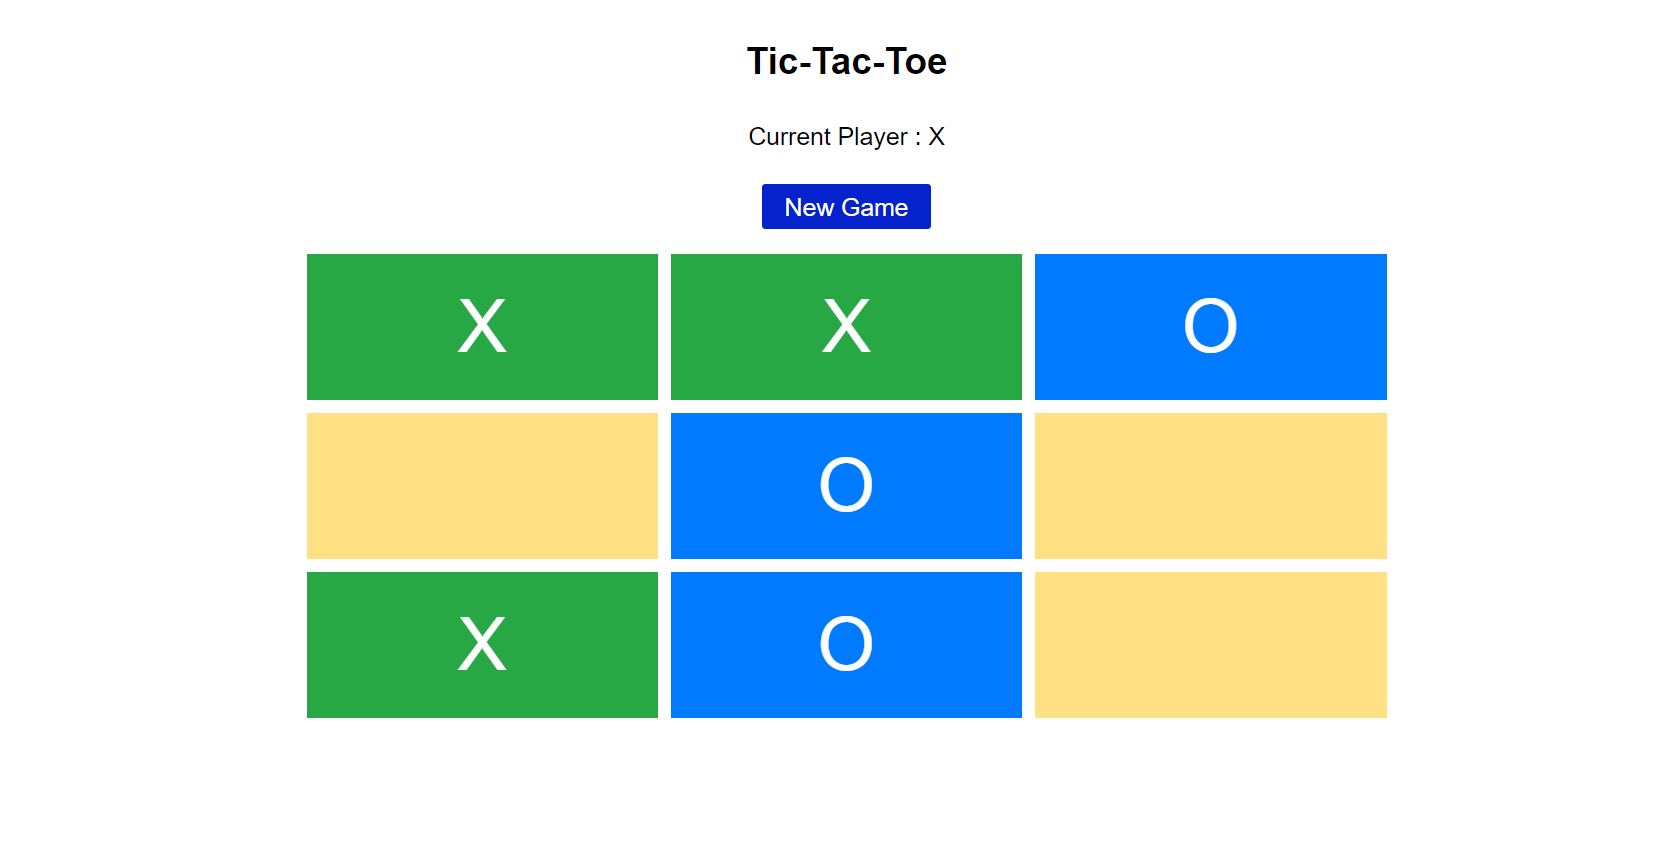
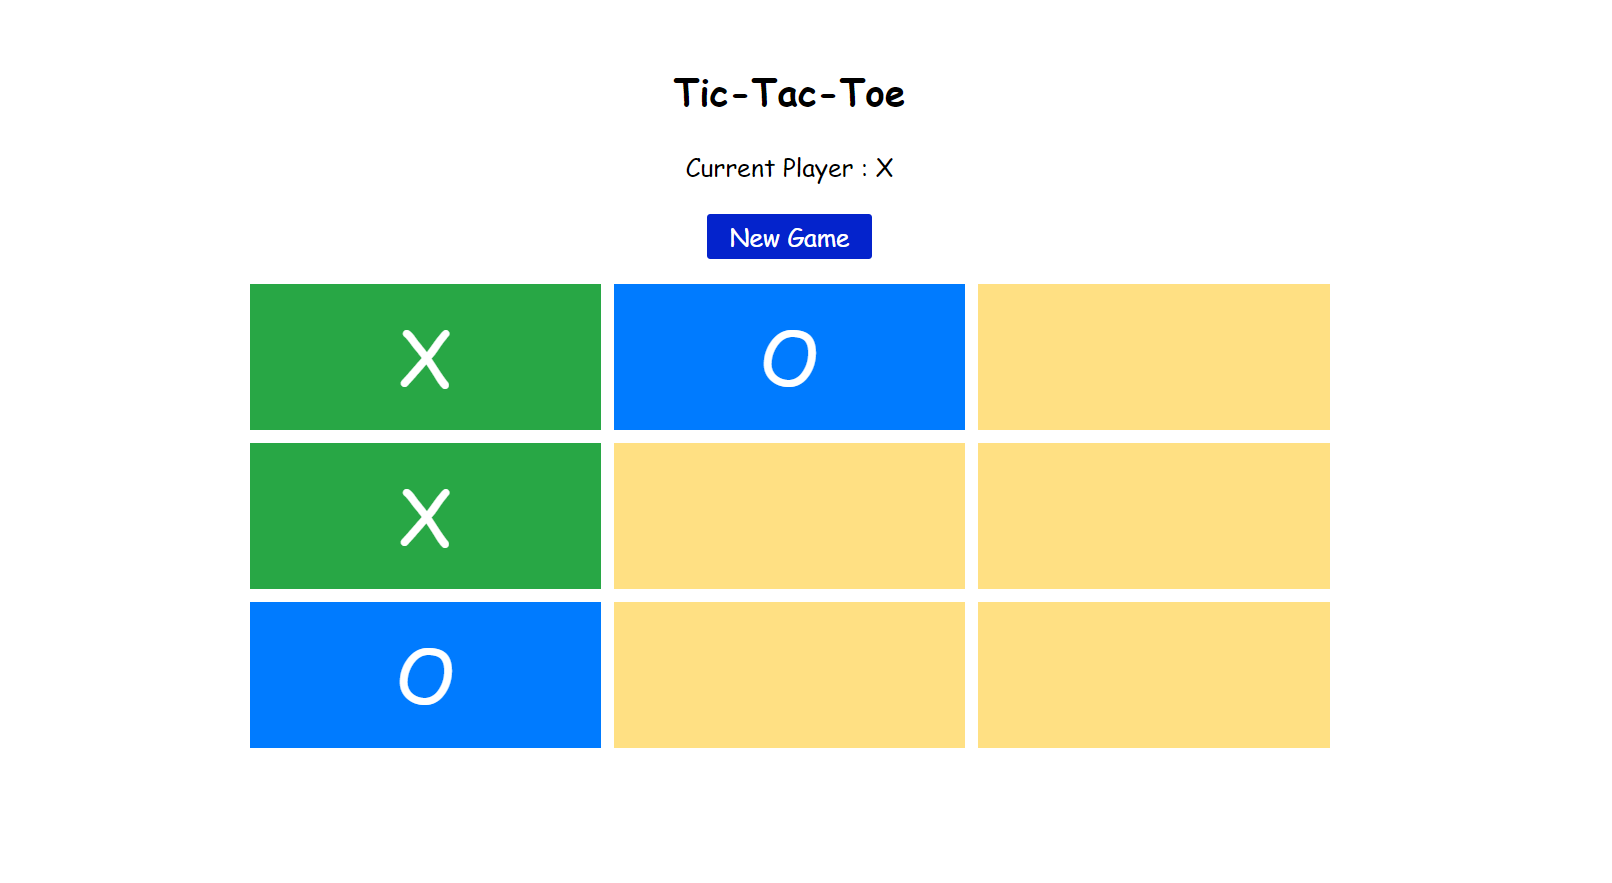
added new font

Changed region(s): [[0.1551, 0.0623, 0.8375, 0.872]]

diff --git a/src/styles.scss b/src/styles.scss
@@ -7,8 +7,7 @@ $font-color: #000;
   body {
     font-size: calc(1em + (1.3125 - 1) * ((100vw - 20em) / (80 - 20)));
     line-height: calc(1.4em + (1.8 - 1.4) * ((100vw - 20em) / (80 - 20)));
-    font-family: sans-serif, Arial, Helvetica;
-    margin: 2em;
+    font-family: cursive, sans-serif, Arial, Helvetica;
   }
 }
 
@@ -17,8 +16,7 @@ $font-color: #000;
   body {
     font-size: 1.375em; //now 1.3125em fr 21px.. for 22px => 1.375em
     line-height: 1.8em;
-    font-family: sans-serif, Arial, Helvetica;
-    margin: 2em;
+    font-family: cursive, sans-serif, Arial, Helvetica;
   }
 }
 
@@ -31,6 +29,7 @@ body {
   background: $background-color;
   color: $font-color;
   height: 100%;
+  margin: 0;
 }
 
 .disable-selection {

diff --git a/src/app/box/box.component.scss b/src/app/box/box.component.scss
@@ -46,7 +46,7 @@ $box-shadow-color: rgb(0 0 0 / 35%);
   .box-button {
     font-size: calc(2em + (1.3125 - 1) * ((100vw - 20em) / (80 - 20)));
     line-height: calc(1.4em + (1.8 - 1.4) * ((100vw - 20em) / (80 - 20)));
-    font-family: sans-serif, Arial, Helvetica;
+    font-family: cursive, sans-serif, Arial, Helvetica;
   }
 }
 
@@ -55,6 +55,6 @@ $box-shadow-color: rgb(0 0 0 / 35%);
   .box-button {
     font-size: 3em;
     line-height: 1.8em;
-    font-family: sans-serif, Arial, Helvetica;
+    font-family: cursive, sans-serif, Arial, Helvetica;
   }
 }
